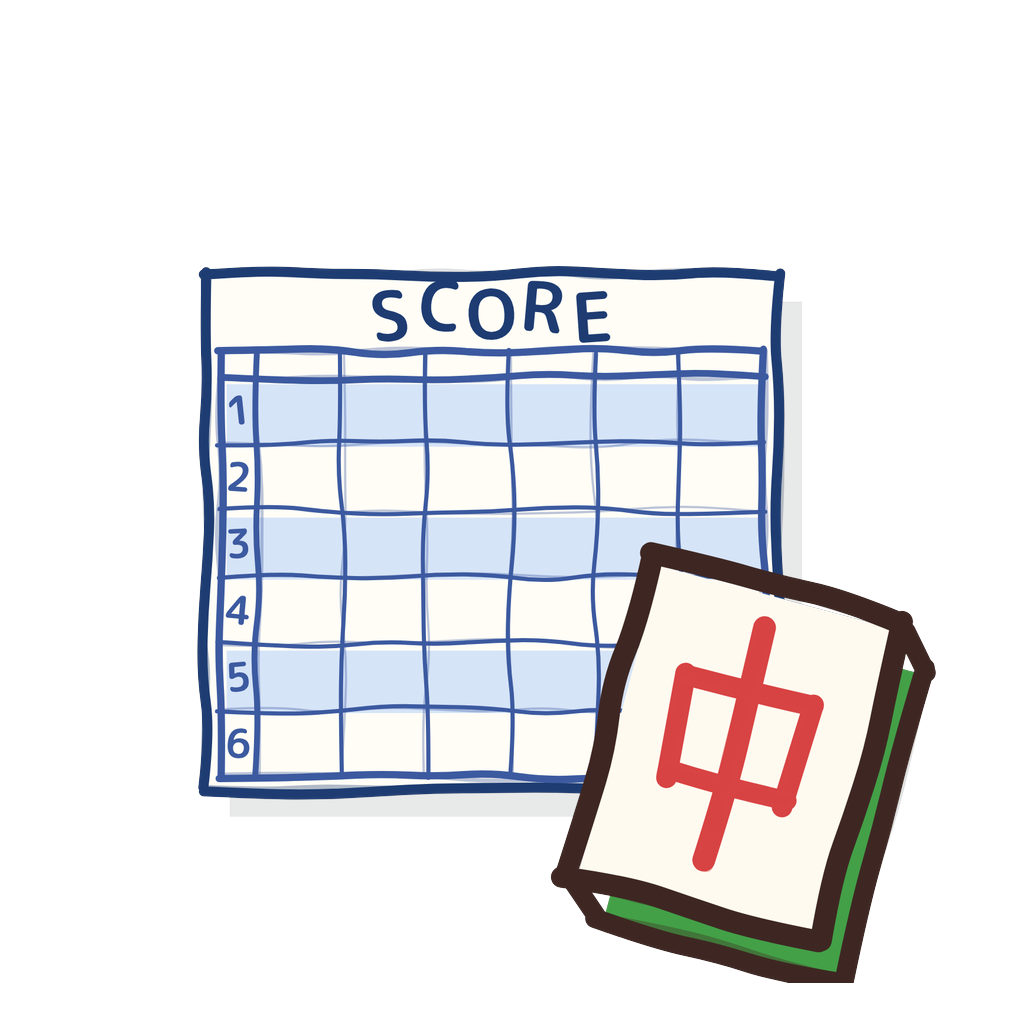
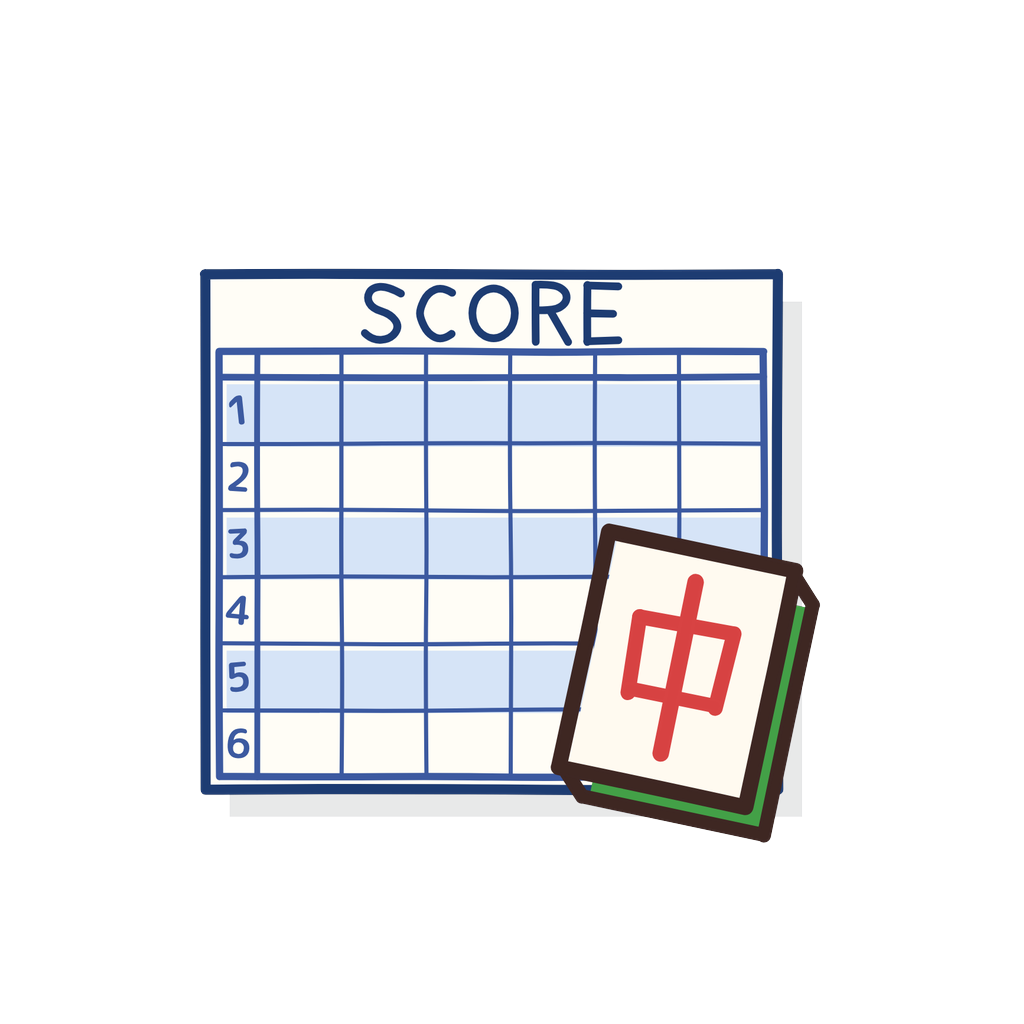
feat: アプリアイコンを作り直し（線をなめらかに・牌をまるごと表示・SCOREを手描き文字に） (#76)
- SketchShapes に wobble オプションを追加し、AppIconArt だけ揺らぎを弱めた（amplitude 0.07 / step 7）
- 右下の「中」の牌を縮小・移動して、角丸のアイコン内に牌全体が収まるようにした
- 見出し「SCORE」をフォントではなくストロークの手描き文字に変更（傾き・上下ずれなし、均等配置）
- icon / adaptive-icon / splash / favicon を再生成

Claude-Session: https://claude.ai/code/session_01QezeZoUJNMSdmsjxUPUXcR

Changed region(s): [[0.1875, 0.25, 0.9062, 0.9688], [0.1875, 0.25, 0.3125, 0.2812], [0.6562, 0.25, 0.7188, 0.2812]]

diff --git a/components/icons/AppIconArt.tsx b/components/icons/AppIconArt.tsx
@@ -1,4 +1,4 @@
-// アプリアイコンの絵柄（Issue #74）
+// アプリアイコンの絵柄（Issue #74, #76）
 // 従来のアイコン（generate_assets.py の generate_icon）と同じ構図 ── 「SCORE」の見出しと
 // 番号付きの表が描かれたスコアシートに、右下から傾けた「中」の牌を重ねる ── を、
 // アプリ内の手書き風アイコンと同じ揺らぎ付きの線・色鉛筆風の塗りで描き直したもの。
@@ -8,7 +8,7 @@
 import React from 'react';
 import Svg, { G, Text as SvgText } from 'react-native-svg';
 import { Point } from './sketch';
-import { Shape, SketchShapes, TILE_SHAPES } from './HandDrawnIcons';
+import { Shape, SketchShapes, SketchWobble, TILE_SHAPES } from './HandDrawnIcons';
 
 const VIEW = 100;
 
@@ -80,10 +80,57 @@ const ICON_TILE_SHAPES: Shape[] = TILE_SHAPES.map((shape) =>
   shape.kind === 'line' ? { ...shape, width: (shape.width ?? 1) * 0.7 } : shape,
 );
 
-/** 文字ごとの回転（度）と上下のずれ。固定値なので毎回同じ形になる */
-const TITLE = 'SCORE';
-const TITLE_ROTATE = [-6, 4, -3, 5, -4];
-const TITLE_DY = [0.3, -0.4, 0.2, -0.3, 0.4];
+/**
+ * Issue #76: アイコンの大きさでは揺らぎが目立ちすぎるため、アイコンの線だけ揺らぎを弱めてなめらかにする。
+ * （SketchShapes の既定値は変えないので、アプリ内の他のアイコンの見た目はそのまま）
+ */
+const ICON_WOBBLE: SketchWobble = { amplitude: 0.07, step: 7 };
+
+/**
+ * 見出し「SCORE」の手描き文字（Issue #76）。フォントではなくペンのストロークで描く。
+ * 各文字は 10×12 の箱（y は下向き）の中の中心線で定義する。
+ */
+const GLYPH_W = 10;
+const GLYPH_H = 12;
+const GLYPH_STROKE = 0.88; // Shape の width（BASE_WIDTH に掛ける倍率）
+const glyph = (strokes: Array<{ kind: 'line' | 'curve'; points: Point[]; closed?: boolean }>): Shape[] =>
+  strokes.map((st) => ({ ...st, width: GLYPH_STROKE, color: SHEET_INK }));
+const TITLE_GLYPHS: Shape[][] = [
+  // S
+  glyph([{ kind: 'curve', points: [[8.5, 2.2], [6, 0.7], [3, 1], [1.8, 3], [3, 5], [6.5, 6.2], [8.3, 8.5], [6.5, 11], [3, 11.3], [1.5, 9.8]] }]),
+  // C
+  glyph([{ kind: 'curve', points: [[7.03, 2.02], [5.2, 0.8], [2.37, 2.02], [0.87, 5.1], [0.87, 6.9], [2.37, 9.98], [5.2, 11.2], [7.03, 9.98]] }]),
+  // O
+  glyph([{ kind: 'curve', closed: true, points: [[9.4, 6], [8.2, 2.4], [5, 0.8], [1.8, 2.4], [0.6, 6], [1.8, 9.6], [5, 11.2], [8.2, 9.6]] }]),
+  // R
+  glyph([
+    { kind: 'line', points: [[2, 11.5], [2, 0.5]] },
+    { kind: 'curve', points: [[2, 0.5], [5.5, 0.3], [8, 1.8], [8, 4], [5.5, 5.6], [2, 5.4]] },
+    { kind: 'line', points: [[4.8, 5.5], [8.3, 11.5]] },
+  ]),
+  // E
+  glyph([
+    { kind: 'line', points: [[2.5, 0.5], [2.5, 11.5]] },
+    { kind: 'line', points: [[2.5, 0.6], [8.5, 0.8]] },
+    { kind: 'line', points: [[2.5, 6], [7.5, 6.1]] },
+    { kind: 'line', points: [[2.5, 11.4], [8.5, 11.2]] },
+  ]),
+];
+
+/** 見出し帯の高さに対する文字（10×12 の箱）の高さの割合 */
+const TITLE_GLYPH_RATIO = 0.86;
+/** 全文字の中心線の上下の端（箱の座標）。上下中央に置くのに使う */
+const GLYPH_INK_Y: [number, number] = (() => {
+  const ys = TITLE_GLYPHS.flat().flatMap((sh) => ('points' in sh ? sh.points.map(([, y]) => y) : []));
+  return [Math.min(...ys), Math.max(...ys)];
+})();
+
+/** 文字の中心線の左右の端（箱の座標） */
+const glyphXRange = (shapes: Shape[]): [number, number] => {
+  const xs = shapes.flatMap((sh) => ('points' in sh ? sh.points.map(([x]) => x) : []));
+  return [Math.min(...xs), Math.max(...xs)];
+};
+
 const NUM_ROTATE = [-6, 4, -3, 5, -5, 3, -4, 6, -2, 4];
 
 const FONT = "'M PLUS Rounded 1c', 'Hiragino Maru Gothic ProN', sans-serif";
@@ -105,32 +152,39 @@ export function AppIconArt({ size = 1024, rows = 8, cols = 8, margin = 0 }: AppI
   const rowH = (GRID_BOTTOM - dataTop) / rows;
   const titleSize = TITLE_H * 0.95;
   const titleAdvance = titleSize * 0.74;
-  const titleX0 = SHEET_W / 2 - (titleAdvance * TITLE.length) / 2;
-  const titleBase = TITLE_H * 0.86;
+  const titleX0 = SHEET_W / 2 - (titleAdvance * TITLE_GLYPHS.length) / 2;
+  // 各文字を同じ大きさに縮め、線の太さも含めて紙の上端の線〜表の上端の線の間（見出し帯）の上下中央に置く
+  // （傾き・上下ずれなし）。0.92 倍だと太い線が紙の輪郭に掛かるため、帯内に収まる 0.86 倍にしている
+  const glyphScale = (TITLE_H * TITLE_GLYPH_RATIO) / GLYPH_H;
+  const glyphTop = GRID_TOP / 2 - ((GLYPH_INK_Y[0] + GLYPH_INK_Y[1]) / 2) * glyphScale;
+  // 従来の文字の並び（titleX0〜titleX0 + titleAdvance × 文字数）の幅に、文字どうしの隙間が等しくなるよう並べる
+  const titleLayout = React.useMemo(() => {
+    const ranges = TITLE_GLYPHS.map(glyphXRange);
+    const inkW = ranges.reduce((sum, [a, b]) => sum + (b - a) * glyphScale, 0);
+    const gap = (titleAdvance * TITLE_GLYPHS.length - inkW) / (TITLE_GLYPHS.length - 1);
+    let x = titleX0;
+    return ranges.map(([a, b]) => {
+      const left = x - a * glyphScale;
+      x += (b - a) * glyphScale + gap;
+      return left;
+    });
+  }, [glyphScale, titleAdvance, titleX0]);
   const numSize = Math.min(rowH * 0.62, NUM_COL_W * 1.05);
   return (
     <Svg width={size} height={size} viewBox={`${-margin} ${-margin} ${VIEW + margin * 2} ${VIEW + margin * 2}`}>
       <G transform={`translate(${SHEET_X} ${SHEET_Y}) scale(${SHEET_SCALE})`}>
-        <SketchShapes shapes={sheetShapes} seed={74} color={SHEET_INK} fill={PAPER} />
-        {Array.from(TITLE).map((ch, i) => {
-          const cx = titleX0 + titleAdvance * (i + 0.5);
-          const y = titleBase + TITLE_DY[i];
-          return (
-            <SvgText
-              key={`t${i}`}
-              x={cx}
-              y={y}
-              fill={SHEET_INK}
-              fontSize={titleSize}
-              fontWeight="bold"
-              fontFamily={FONT}
-              textAnchor="middle"
-              transform={`rotate(${TITLE_ROTATE[i]} ${cx} ${y - titleSize * 0.35})`}
-            >
-              {ch}
-            </SvgText>
-          );
-        })}
+        <SketchShapes shapes={sheetShapes} seed={74} color={SHEET_INK} fill={PAPER} wobble={ICON_WOBBLE} />
+        {TITLE_GLYPHS.map((shapes, i) => (
+          <SketchShapes
+            key={`t${i}`}
+            shapes={shapes}
+            seed={76 + i}
+            color={SHEET_INK}
+            fill={SHEET_INK}
+            wobble={ICON_WOBBLE}
+            transform={`translate(${titleLayout[i].toFixed(3)} ${glyphTop.toFixed(3)}) scale(${glyphScale.toFixed(4)})`}
+          />
+        ))}
         {Array.from({ length: rows }, (_, i) => {
           const cx = GRID_LEFT + NUM_COL_W / 2;
           const y = dataTop + rowH * (i + 0.5) + numSize * 0.36;
@@ -151,13 +205,14 @@ export function AppIconArt({ size = 1024, rows = 8, cols = 8, margin = 0 }: AppI
           );
         })}
       </G>
-      {/* 右下から傾けて重ねた「中」の牌（アプリの TileIcon と同じ絵柄） */}
+      {/* 右下から傾けて重ねた「中」の牌（アプリの TileIcon と同じ絵柄）。Issue #76: 牌全体がアイコン内に収まる大きさ・位置 */}
       <SketchShapes
         shapes={ICON_TILE_SHAPES}
         seed={75}
         color="#3e2723"
         fill="#43a047"
-        transform="translate(84 83) rotate(15) scale(2.55) translate(-11.6 -11.6)"
+        wobble={ICON_WOBBLE}
+        transform="translate(76 72) rotate(12) scale(1.85) translate(-11.6 -11.6)"
       />
     </Svg>
   );

diff --git a/components/icons/HandDrawnIcons.tsx b/components/icons/HandDrawnIcons.tsx
@@ -32,12 +32,20 @@ type RenderedPath =
   | { type: 'path'; d: string; stroke?: ColorRef; fill?: ColorRef; width?: number; opacity?: number }
   | { type: 'circle'; cx: number; cy: number; r: number; fill: ColorRef };
 
-function strokePath(shape: Shape, seed: number): string {
+/** 線の揺らぎの調整（指定しなければ sketch.ts の既定値。アプリ内のアイコンは既定のまま） */
+export interface SketchWobble {
+  /** 揺らぎの大きさ（viewBox 単位） */
+  amplitude?: number;
+  /** 直線に揺らぎ点を入れる間隔（viewBox 単位） */
+  step?: number;
+}
+
+function strokePath(shape: Shape, seed: number, wobble?: SketchWobble): string {
   switch (shape.kind) {
     case 'line':
-      return wobblyLine(shape.points, seed, { closed: shape.closed });
+      return wobblyLine(shape.points, seed, { closed: shape.closed, ...wobble });
     case 'curve':
-      return wobblyCurve(shape.points, seed, { closed: shape.closed });
+      return wobblyCurve(shape.points, seed, { closed: shape.closed, amplitude: wobble?.amplitude });
     case 'circle':
       return wobblyCircle(shape.cx, shape.cy, shape.r, seed);
     default:
@@ -46,7 +54,7 @@ function strokePath(shape: Shape, seed: number): string {
 }
 
 /** 図形の一覧から描画用のパスを作る。塗り → 本線 → 二度書きの順に重ねる */
-function buildPaths(shapes: Shape[], seed: number): RenderedPath[] {
+function buildPaths(shapes: Shape[], seed: number, wobble?: SketchWobble): RenderedPath[] {
   const fills: RenderedPath[] = [];
   const strokes: RenderedPath[] = [];
   shapes.forEach((shape, i) => {
@@ -70,8 +78,8 @@ function buildPaths(shapes: Shape[], seed: number): RenderedPath[] {
     }
     const width = (shape.width ?? 1) * BASE_WIDTH;
     const color = shape.color ?? 'stroke';
-    strokes.push({ type: 'path', d: strokePath(shape, s), stroke: color, width });
-    strokes.push({ type: 'path', d: strokePath(shape, s + 101), stroke: color, width: width * 0.55, opacity: OVERDRAW_OPACITY });
+    strokes.push({ type: 'path', d: strokePath(shape, s, wobble), stroke: color, width });
+    strokes.push({ type: 'path', d: strokePath(shape, s + 101, wobble), stroke: color, width: width * 0.55, opacity: OVERDRAW_OPACITY });
   });
   return [...fills, ...strokes];
 }
@@ -97,14 +105,22 @@ export function SketchShapes({
   color,
   fill,
   transform,
+  wobble,
 }: {
   shapes: Shape[];
   seed: number;
   color: string;
   fill: string;
   transform?: string;
+  /** 線の揺らぎを弱めたいとき（アプリアイコンなど）に指定する。省略時は従来どおり */
+  wobble?: SketchWobble;
 }) {
-  const paths = useMemo(() => buildPaths(shapes, seed), [shapes, seed]);
+  const amplitude = wobble?.amplitude;
+  const step = wobble?.step;
+  const paths = useMemo(
+    () => buildPaths(shapes, seed, amplitude === undefined && step === undefined ? undefined : { amplitude, step }),
+    [shapes, seed, amplitude, step],
+  );
   const resolve = (c: ColorRef | undefined) => (c === 'stroke' ? color : c === 'fill' ? fill : c);
   return (
     <G transform={transform}>
